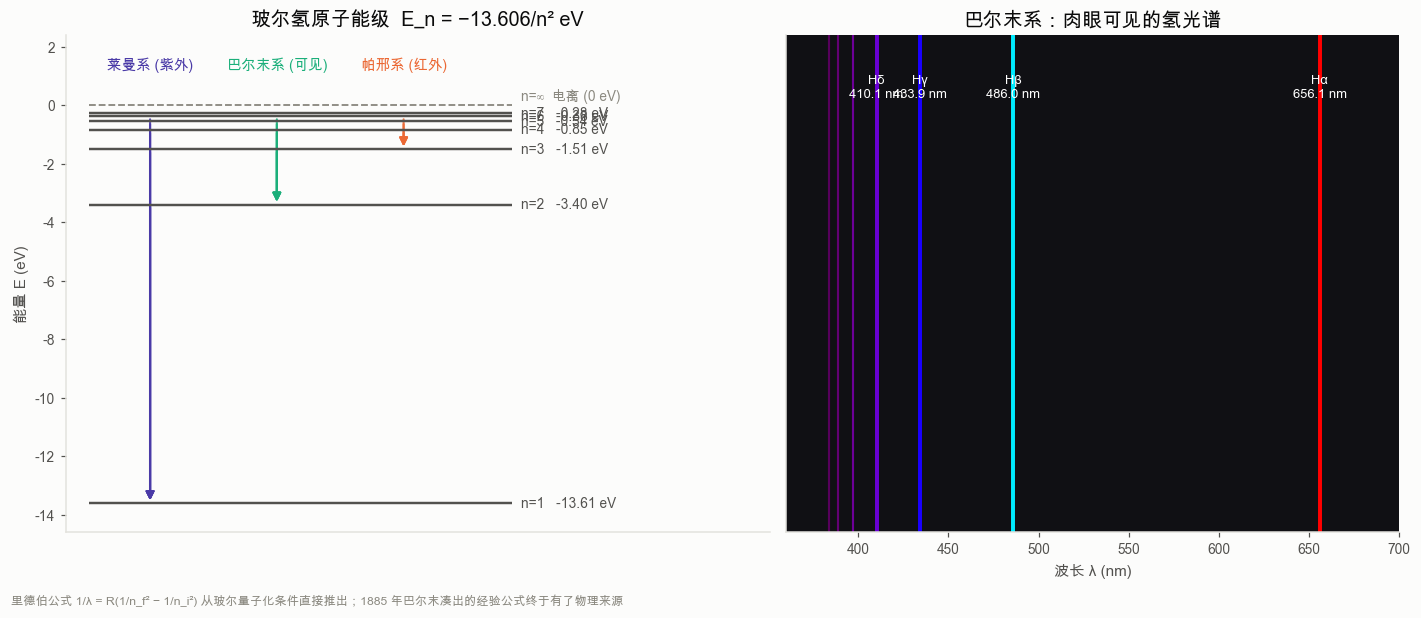
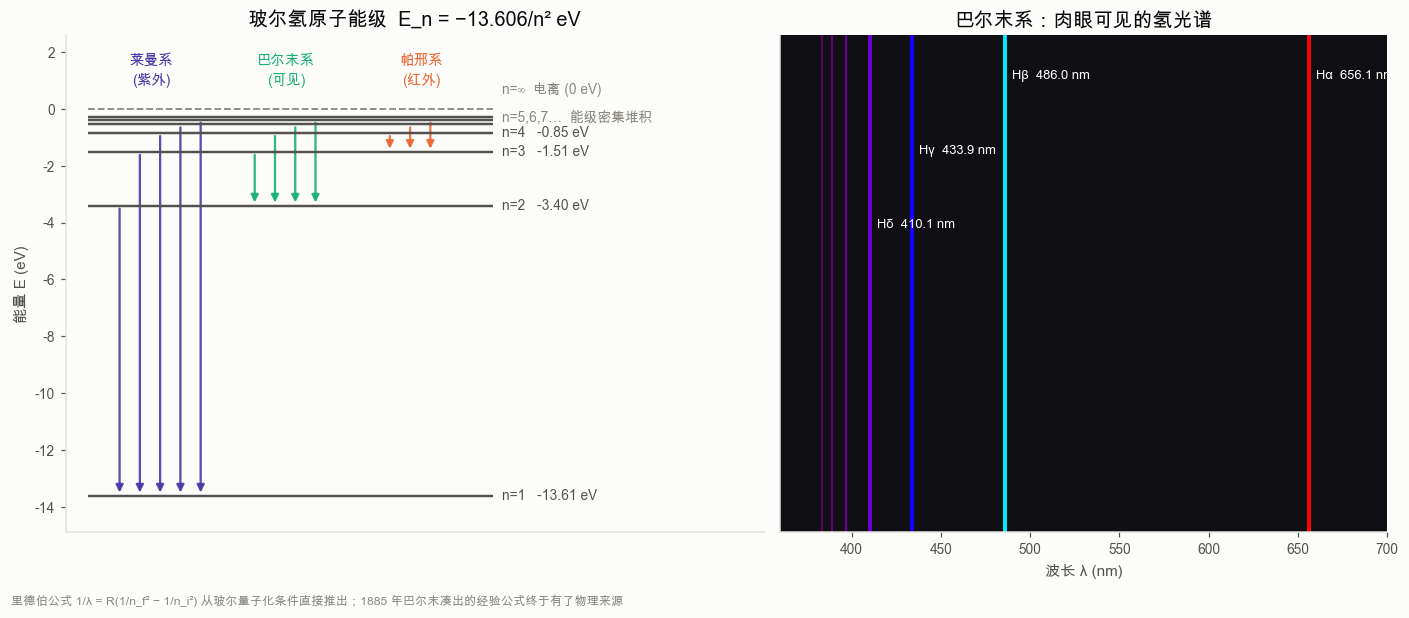
bohr tunneling

diff --git a/qhv/s03_schrodinger.py b/qhv/s03_schrodinger.py
@@ -1,0 +1,244 @@
+"""1926 · 薛定谔 & 玻恩 —— 波函数登场
+
+薛定谔方程（含时 / 定态）：
+    iħ ∂ψ/∂t = Ĥψ,        Ĥψ = Eψ,        Ĥ = −ħ²/2m ∇² + V(x)
+
+玻恩（1926）给出概率诠释：|ψ(x)|² dx 是在 x 附近找到粒子的概率——
+薛定谔本人一辈子不接受这个解释，但它是量子力学的地基。
+
+本模块用 PyTorch 做三件事（全部取自然单位 ħ = m = 1）：
+  1) 有限差分离散哈密顿量 → torch.linalg.eigh 求本征值，
+     验证谐振子 E_n = (n+1/2)ħω 与无限深方势阱 E_n = n²π²ħ²/2mL²；
+  2) split-step 傅里叶法（torch.fft，复数张量）演化高斯波包穿过势垒，
+     数值透射率与解析公式逐点对照 —— 这就是量子隧穿；
+  3) 双缝实验：一个一个电子打上去，屏幕上逐渐「长出」干涉条纹（玻恩规则）。
+"""
+from __future__ import annotations
+
+import math
+
+import numpy as np
+import torch
+import matplotlib.pyplot as plt
+
+from .style import use_style, finish, section, C, SERIES, INK, INK_2, INK_MUTED
+
+DT = torch.float64
+CT = torch.complex128
+
+
+# ------------------------------------------------------------ 1. 定态本征值
+def solve_tise(x: torch.Tensor, V: torch.Tensor, k: int = 8):
+    """三点差分离散 Ĥ = −½ d²/dx² + V，返回前 k 个本征值与本征函数。"""
+    n = x.numel()
+    dx = float(x[1] - x[0])
+    main = 1.0 / dx ** 2 + V
+    off = -0.5 / dx ** 2 * torch.ones(n - 1, dtype=DT)
+    Hm = torch.diag(main) + torch.diag(off, 1) + torch.diag(off, -1)
+    ev, evec = torch.linalg.eigh(Hm)
+    psi = evec[:, :k].T
+    psi = psi / torch.sqrt((psi ** 2).sum(dim=1, keepdim=True) * dx)
+    return ev[:k], psi
+
+
+def fig_eigenstates():
+    fig, axes = plt.subplots(1, 2, figsize=(13.0, 5.4))
+
+    # (a) 谐振子 V = x²/2  →  E_n = n + 1/2
+    x = torch.linspace(-8, 8, 1400, dtype=DT)
+    V = 0.5 * x ** 2
+    E, psi = solve_tise(x, V, 6)
+    ax = axes[0]
+    ax.plot(x, V, color=INK_MUTED, lw=1.6, label="势 V(x) = x²/2")
+    for n in range(6):
+        ax.axhline(float(E[n]), color=INK_MUTED, lw=0.7, ls=":", xmin=0.05, xmax=0.95)
+        ax.plot(x, psi[n] * 1.1 + float(E[n]), color=SERIES[n % 8], lw=1.8)
+        ax.text(6.0, float(E[n]) + 0.12, f"n={n}  E={float(E[n]):.4f}",
+                fontsize=8.5, color=SERIES[n % 8])
+    ax.set_ylim(-0.4, 7.2); ax.set_xlim(-7, 7)
+    ax.set_xlabel("x"); ax.set_ylabel("能量 E  /  ψ_n(x) 偏置在各自能级上")
+    ax.set_title("谐振子：数值本征值 vs (n+½)ħω")
+    ax.legend(loc="upper left")
+    err = max(abs(float(E[n]) - (n + 0.5)) for n in range(6))
+    print(f"  谐振子前 6 个能级最大误差 = {err:.2e}  (理论 E_n = n + 1/2)")
+
+    # (b) 无限深方势阱 →  E_n = n²π²/(2L²)
+    L = 1.0
+    x2 = torch.linspace(0, L, 1200, dtype=DT)
+    V2 = torch.zeros_like(x2)
+    V2[0] = V2[-1] = 1e8
+    E2, psi2 = solve_tise(x2, V2, 5)
+    ax = axes[1]
+    for n in range(5):
+        exact = (n + 1) ** 2 * math.pi ** 2 / (2 * L ** 2)
+        ax.axhline(float(E2[n]), color=INK_MUTED, lw=0.7, ls=":")
+        ax.plot(x2, psi2[n] * 3.0 + float(E2[n]), color=SERIES[n % 8], lw=1.8)
+        ax.text(1.005, float(E2[n]), f"n={n+1}: 数值 {float(E2[n]):.2f} / 解析 {exact:.2f}",
+                fontsize=8.5, color=SERIES[n % 8], va="center")
+    ax.set_xlim(0, 1.0); ax.set_ylim(-8, 140)
+    ax.set_xlabel("x / L"); ax.set_ylabel("能量 E")
+    ax.set_title("无限深方势阱：E_n = n²π²ħ²/2mL²")
+
+    return finish(fig, "03_eigenstates.png",
+                  "把 Ĥ 离散成矩阵后，「求解薛定谔方程」就是一次 torch.linalg.eigh —— 能级量子化是边界条件的必然结果")
+
+
+# ------------------------------------------------------------ 2. 隧穿
+def split_step(psi0, x, V, dt, steps, snap_every=None):
+    """split-step 傅里叶：ψ ← e^{-iVdt/2} F⁻¹ e^{-ik²dt/2} F e^{-iVdt/2} ψ"""
+    n = x.numel()
+    dx = float(x[1] - x[0])
+    k = 2 * math.pi * torch.fft.fftfreq(n, d=dx).to(DT)
+    expV = torch.exp(-0.5j * V.to(CT) * dt)
+    expK = torch.exp(-0.5j * (k ** 2).to(CT) * dt)
+    psi = psi0.clone()
+    snaps = []
+    for s in range(steps):
+        psi = expV * torch.fft.ifft(expK * torch.fft.fft(expV * psi))
+        if snap_every and s % snap_every == 0:
+            snaps.append(psi.clone())
+    return psi, snaps
+
+
+def gaussian_packet(x, x0, k0, sigma):
+    psi = torch.exp(-(x - x0) ** 2 / (2 * sigma ** 2)).to(CT) * torch.exp(1j * k0 * x.to(CT))
+    dx = float(x[1] - x[0])
+    return psi / torch.sqrt((psi.abs() ** 2).sum() * dx)
+
+
+def barrier_T_analytic(E, V0, a):
+    """矩形势垒的解析透射率（ħ=m=1）。"""
+    E = np.asarray(E, dtype=float)
+    T = np.empty_like(E)
+    lo, hi = E < V0, E >= V0
+    kap = np.sqrt(2 * (V0 - E[lo]))
+    T[lo] = 1 / (1 + V0 ** 2 * np.sinh(kap * a) ** 2 / (4 * E[lo] * (V0 - E[lo])))
+    if hi.any():
+        kk = np.sqrt(2 * (E[hi] - V0))
+        T[hi] = 1 / (1 + V0 ** 2 * np.sin(kk * a) ** 2 / (4 * E[hi] * (E[hi] - V0)))
+    return T
+
+
+def fig_tunneling():
+    N, Lx = 4096, 400.0
+    x = torch.linspace(-Lx / 2, Lx / 2, N, dtype=DT)
+    a, V0 = 1.0, 2.0
+    V = torch.where((x.abs() < a / 2), torch.full_like(x, V0), torch.zeros_like(x))
+    # 边界吸收层，防止波包绕回来
+    absorber = 8.0 * (torch.clamp(x.abs() - 160.0, min=0.0) / 40.0) ** 2
+
+    fig = plt.figure(figsize=(13.2, 8.2))
+    gs = fig.add_gridspec(2, 2, height_ratios=[1.15, 1], hspace=0.34, wspace=0.22)
+
+    # (a) 一次演化的快照：E < V0，仍有一部分穿过去
+    k0 = math.sqrt(2 * 1.0)          # E = k0²/2 = 1.0 < V0 = 2.0
+    psi0 = gaussian_packet(x, -40.0, k0, 6.0)
+    dt, steps = 0.01, 5000
+    _, snaps = split_step(psi0, x, V - 1j * 0 + absorber * 0, dt, steps, snap_every=1000)
+    ax = fig.add_subplot(gs[0, :])
+    for i, s in enumerate(snaps):
+        t = i * 1000 * dt
+        ax.plot(x, s.abs() ** 2 + 0, color=SERIES[i % 8], lw=1.7, label=f"t = {t:.0f}")
+    ax.fill_between(x.numpy(), 0, (V / V0 * 0.06).numpy(), color=INK_MUTED, alpha=0.35)
+    ax.text(2.5, 0.052, f"势垒 V₀={V0}, 宽 a={a}\n入射能量 E=1.0 < V₀", fontsize=9, color=INK_2)
+    ax.set_xlim(-80, 80); ax.set_ylim(0, 0.075)
+    ax.set_xlabel("x"); ax.set_ylabel("|ψ(x,t)|²")
+    ax.set_title("量子隧穿：能量不够，波包照样漏过去一部分")
+    ax.legend(ncol=5, loc="upper right")
+
+    # (b) 透射率 vs 能量：数值 vs 解析
+    energies = np.linspace(0.15, 4.0, 22)
+    T_num = []
+    for E in energies:
+        kk = math.sqrt(2 * E)
+        p0 = gaussian_packet(x, -60.0, kk, 12.0)     # 宽包 → 动量分布窄
+        psiT, _ = split_step(p0, x, V, 0.01, int(6500 / max(kk, 0.6)))
+        dx = float(x[1] - x[0])
+        right = (x > a / 2 + 3)
+        T_num.append(float((psiT.abs() ** 2)[right].sum() * dx))
+    T_ana = barrier_T_analytic(energies, V0, a)
+    ax = fig.add_subplot(gs[1, 0])
+    ax.plot(energies, T_ana, color=C["blue"], lw=2, label="解析解 T(E)")
+    ax.plot(energies, T_num, "o", ms=6, color=C["orange"], label="split-step 数值")
+    ax.axvline(V0, color=INK_MUTED, ls="--", lw=1)
+    ax.text(V0 + 0.06, 0.06, "E = V₀", fontsize=9, color=INK_MUTED)
+    ax.set_xlabel("入射能量 E"); ax.set_ylabel("透射率 T")
+    ax.set_title("透射率：数值积分 vs 解析公式")
+    ax.legend(loc="upper left")
+    print(f"  隧穿 T(E=1.0)：数值 {T_num[5]:.3f} / 解析 {T_ana[5]:.3f}")
+
+    # (c) 势垒宽度的指数压制
+    ax = fig.add_subplot(gs[1, 1])
+    widths = np.linspace(0.2, 4.0, 200)
+    for i, E in enumerate([0.5, 1.0, 1.5]):
+        T = barrier_T_analytic(np.full_like(widths, E), V0, widths)
+        ax.semilogy(widths, T, color=SERIES[i], lw=2, label=f"E = {E}")
+        kap = math.sqrt(2 * (V0 - E))
+        ax.text(3.1, T[-1] * 2.2, f"κ={kap:.2f}", color=SERIES[i], fontsize=8.5)
+    ax.set_xlabel("势垒宽度 a"); ax.set_ylabel("透射率 T（对数轴）")
+    ax.set_title("T ≈ e^(−2κa)：宽一点，就指数级地穿不过去")
+    ax.legend()
+
+    return finish(fig, "03_tunneling.png",
+                  "隧穿是恒星里氢聚变、α 衰变、扫描隧道显微镜和闪存的共同物理基础；κ = √(2m(V₀−E))/ħ")
+
+
+# ------------------------------------------------------------ 3. 双缝
+def fig_double_slit(seed: int = 7):
+    g = torch.Generator().manual_seed(seed)
+    y = torch.linspace(-25, 25, 1600, dtype=DT)          # 屏幕坐标 (mm)
+    lam, d, slit_w, Lscreen = 5e-7, 1.0e-4, 2.2e-5, 1.5  # m
+    th = torch.atan(y * 1e-3 / Lscreen)
+    alpha = math.pi * slit_w / lam * torch.sin(th)
+    beta = math.pi * d / lam * torch.sin(th)
+    single = (torch.sin(alpha) / torch.where(alpha.abs() < 1e-12,
+                                             torch.full_like(alpha, 1e-12), alpha)) ** 2
+    both = single * torch.cos(beta) ** 2                  # 双缝 = 单缝包络 × 干涉因子
+    both = both / both.max()
+
+    fig = plt.figure(figsize=(13.0, 6.6))
+    gs = fig.add_gridspec(2, 4, height_ratios=[1, 1.25], hspace=0.42, wspace=0.28)
+
+    counts = [50, 500, 5000, 60000]
+    p = (both / both.sum())
+    for i, nshot in enumerate(counts):
+        ax = fig.add_subplot(gs[0, i])
+        idx = torch.multinomial(p, nshot, replacement=True, generator=g)
+        hits = y[idx]
+        jitter = torch.rand(nshot, generator=g, dtype=DT) * 2 - 1
+        ax.scatter(hits, jitter, s=0.7, c=C["blue"], alpha=0.35, linewidths=0)
+        ax.set_xlim(-25, 25); ax.set_ylim(-1.1, 1.1)
+        ax.set_yticks([]); ax.set_title(f"{nshot} 个电子", fontsize=10.5)
+        ax.grid(False)
+        ax.set_facecolor("#f4f6fa")
+        if i == 0:
+            ax.set_ylabel("屏幕")
+
+    ax = fig.add_subplot(gs[1, :])
+    ax.plot(y, both, color=C["blue"], lw=2, label="双缝：|ψ₁+ψ₂|²（有干涉）")
+    ax.plot(y, single / single.max() * 0.5, color=C["orange"], lw=2, ls="--",
+            label="单缝包络 |ψ₁|²+|ψ₂|²（经典粒子预期，无条纹）")
+    ax.fill_between(y.numpy(), 0, both.numpy(), color=C["blue"], alpha=0.08)
+    for m in range(-4, 5):
+        ym = float(torch.asin(torch.tensor(m * lam / d)) * Lscreen * 1e3)
+        if abs(ym) < 25:
+            ax.axvline(ym, color=INK_MUTED, lw=0.7, ls=":")
+    ax.set_xlim(-25, 25)
+    ax.set_xlabel("屏幕位置 y (mm)"); ax.set_ylabel("相对强度 |ψ|²")
+    ax.set_title("玻恩规则：单个电子随机落点，大量电子累积出干涉条纹")
+    ax.legend(loc="upper right")
+    return finish(fig, "03_double_slit.png",
+                  "先叠加振幅再取模方（ψ₁+ψ₂ 后平方），不是先取模方再相加 —— 这一步之差就是量子与经典的分界。条纹间距 Δy = λL/d")
+
+
+def main():
+    section("1926 · 薛定谔方程 & 玻恩概率诠释")
+    print(__doc__)
+    fig_eigenstates()
+    fig_tunneling()
+    fig_double_slit()
+
+
+if __name__ == "__main__":
+    use_style()
+    main()

diff --git a/qhv/s02_einstein_bohr.py b/qhv/s02_einstein_bohr.py
@@ -100,21 +100,25 @@ def fig_bohr():
 
     for i, e in enumerate(E, start=1):
         ax.hlines(e, 0.05, 0.95, color=INK_2, lw=1.6)
-        ax.text(0.97, e, f"n={i}   {e:.2f} eV", va="center", fontsize=9, color=INK_2)
+        if i <= 4:
+            ax.text(0.97, e, f"n={i}   {e:.2f} eV", va="center", fontsize=9, color=INK_2)
+    ax.text(0.97, -0.30, "n=5,6,7…  能级密集堆积", va="center", fontsize=9, color=INK_MUTED)
     ax.hlines(0, 0.05, 0.95, color=INK_MUTED, lw=1.2, ls="--")
-    ax.text(0.97, 0.15, "n=∞  电离 (0 eV)", fontsize=9, color=INK_MUTED)
+    ax.text(0.97, 0.55, "n=∞  电离 (0 eV)", fontsize=9, color=INK_MUTED)
 
-    series = [("莱曼系 (紫外)", 1, C["violet"], 0.18),
-              ("巴尔末系 (可见)", 2, C["aqua"], 0.45),
-              ("帕邢系 (红外)", 3, C["orange"], 0.72)]
-    for label, nf, col, x in series:
-        for ni in range(nf + 1, 7):
+    series = [("莱曼系\n(紫外)", 1, C["violet"], 0.12),
+              ("巴尔末系\n(可见)", 2, C["aqua"], 0.42),
+              ("帕邢系\n(红外)", 3, C["orange"], 0.72)]
+    for label, nf, col, x0 in series:
+        for j, ni in enumerate(range(nf + 1, 7)):
+            x = x0 + j * 0.045
             ax.add_patch(FancyArrowPatch((x, E[ni - 1]), (x, E[nf - 1]),
-                                         arrowstyle="-|>", mutation_scale=11,
-                                         color=col, lw=1.4, alpha=0.85))
-        ax.text(x, 1.2, label, ha="center", fontsize=9.5, color=col, fontweight="bold")
-    ax.set_ylim(-14.6, 2.4)
-    ax.set_xlim(0, 1.5)
+                                         arrowstyle="-|>", mutation_scale=10,
+                                         color=col, lw=1.5, alpha=0.9))
+        ax.text(x0 + 0.07, 1.35, label, ha="center", va="center", fontsize=9.5,
+                color=col, fontweight="bold", linespacing=1.35)
+    ax.set_ylim(-14.9, 2.6)
+    ax.set_xlim(0, 1.55)
     ax.set_xticks([])
     ax.set_ylabel("能量 E (eV)")
     ax.set_title("玻尔氢原子能级  E_n = −13.606/n² eV")
@@ -131,8 +135,12 @@ def fig_bohr():
         col = wavelength_to_rgb(lam_nm)
         ax2.axvline(lam_nm, color=col, lw=2.6 if ni < 7 else 1.4)
         if ni <= 6:
-            ax2.text(lam_nm, 0.92, f"H{'αβγδ'[ni-3]}\n{lam_nm:.1f} nm",
-                     rotation=0, ha="center", va="top", fontsize=8.5, color="white")
+            ytxt = [0.93, 0.93, 0.78, 0.63][ni - 3]
+            right = lam_nm > 600
+            ax2.text(lam_nm + (-5 if right else 5), ytxt,
+                     f"H{'αβγδ'[ni-3]}  {lam_nm:.1f} nm",
+                     ha="right" if right else "left", va="top",
+                     fontsize=8.5, color="white")
     ax2.set_xlim(360, 700)
     ax2.set_ylim(0, 1)
     ax2.set_yticks([])
